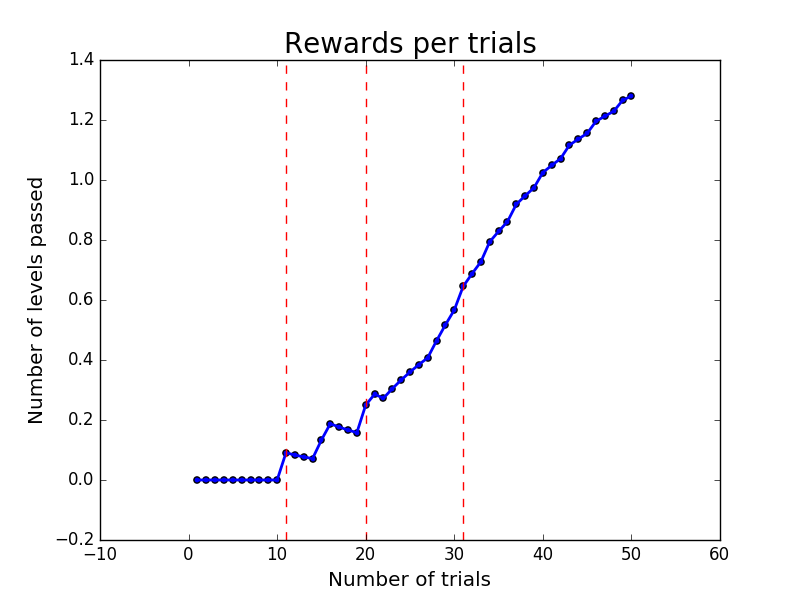
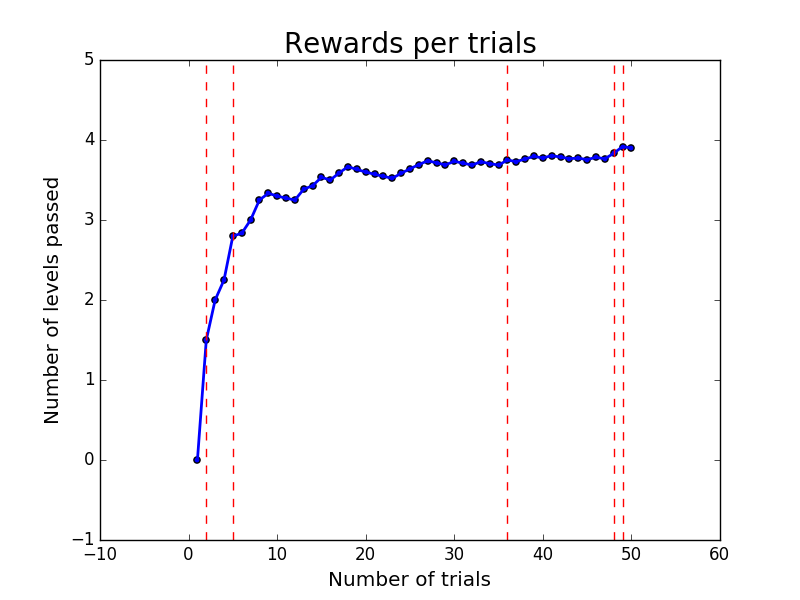
Last Version

diff --git a/src/denseLearnerRLSVI.py b/src/denseLearnerRLSVI.py
@@ -1,0 +1,220 @@
+'''
+Simple implementation of RLSVI agent.
+
+original author: Ian Osband, iosband@stanford.edu
+On the algorithm: http://arxiv.org/abs/1402.0635
+
+Adapted (wrapper structure) by Lars Roemheld, roemheld@stanford.edu
+'''
+
+import scipy.sparse
+import numpy as np
+
+
+class RLSVI:
+    '''
+    RLSVI agent
+
+    Important part is the memory, a list of lists.
+        covs[h] = Sigma_h
+        thetaMeans[h] = \overline{theta}_h
+        thetaSamps[h] = \hat{theta}_h
+        memory[h] = {oldFeat, reward, newFeat}
+            oldFeat = A (nData x nFeat)
+            reward = vector of rewards
+            newFeat = array (nData x nFeat x nAction)
+    with history appended row by row.
+    '''
+    def __init__(self, nFeat, nAction, epLen,
+                 epsilon=0.0, sigma=1.0, lam=1.0, maxHist=5000):
+        self.nFeat = nFeat
+        self.nAction = nAction
+        self.epLen = epLen
+        self.epsilon = epsilon
+        self.sigma = sigma
+        self.maxHist = maxHist
+        self.isRLSVI = (epsilon == 0.0) # sample from belief only if epsilon is 0. Setting this here allows epsilon to be changed later (to stop LSVI from exploring further)
+
+        # Make the computation structures
+        self.covs = []
+        self.thetaMeans = []
+        self.thetaSamps = []
+        self.memory = []
+        for i in range(epLen + 1):
+            self.covs.append(np.identity(nFeat) / float(lam))
+            self.thetaMeans.append(np.zeros(nFeat))
+            self.thetaSamps.append(np.zeros(nFeat))
+            self.memory.append({'oldFeat': np.zeros([maxHist, nFeat]),
+                                'rewards': np.zeros(maxHist),
+                                'newFeat': np.zeros([maxHist, nAction, nFeat])})
+
+    def update_obs(self, ep, h, oldObs, reward, newObs):
+        '''
+        Take in an observed transition and add it to the memory.
+
+        Args:
+            ep - int - which episode
+            h - int - timestep within episode
+            oldObs - nFeat x 1
+            action - int
+            reward - float
+            newObs - nFeat x nAction
+
+        Returns:
+            NULL - update covs, update memory in place.
+        '''
+        if ep >= self.maxHist:
+            print('****** ERROR: HISTORY Memory Exceeded ******')
+
+        # Covariance update
+        u = oldObs / self.sigma
+        S = self.covs[h]
+        Su = np.dot(S, u)
+        temp = np.outer(Su, Su)
+        temp2 = np.dot(u.T, Su) # TODO LR added the ".T", is this correct?!
+        self.covs[h] = S - (temp / (1 + temp2))
+
+        # Adding the memory
+        self.memory[h]['oldFeat'][ep, :] = oldObs.T  # TODO LR added the ".T", is this correct?!
+        self.memory[h]['rewards'][ep] = reward
+        self.memory[h]['newFeat'][ep, :, :] = newObs.T # TODO LR added the ".T", is this correct?!
+
+        if len(self.memory[h]['oldFeat']) == len(self.memory[h]['rewards']) \
+           and len(self.memory[h]['rewards']) == len(self.memory[h]['newFeat']):
+            pass
+        else:
+            print('****** ERROR: Memory LA dims Failure ******')
+
+    def update_policy(self, ep):
+        '''
+        Re-computes theta parameters via planning step.
+
+        Args:
+            ep - int - which episode are we on
+
+        Returns:
+            NULL - updates theta in place for policy
+        '''
+        H = self.epLen
+
+        if len(self.memory[H - 1]['oldFeat']) == 0:
+            return
+
+        for i in range(H):
+            h = H - i - 1
+            A = self.memory[h]['oldFeat'][0:ep]
+            nextPhi = self.memory[h]['newFeat'][0:ep, :, :]
+            nextQ = np.dot(nextPhi, self.thetaSamps[h + 1])
+            maxQ = nextQ.max(axis=1)
+            b = self.memory[h]['rewards'][0:ep] + maxQ
+            self.thetaMeans[h] = \
+                self.covs[h].dot(np.dot(A.T, b)) / (self.sigma ** 2)
+            self.thetaSamps[h] = \
+                np.random.multivariate_normal(mean=self.thetaMeans[h],
+                                              cov=self.covs[h])
+
+            mu = self.thetaMeans[h]
+            sig = np.sqrt(self.covs[h].diagonal())
+            if self.isRLSVI:
+                self.thetaSamps[h] = (mu + sig*np.random.normal(size=self.nFeat)).T
+            else:
+                self.thetaSamps[h] = (mu).T # If epsilon>0.0, do not sample (and use epsilon-greedy exploration)
+
+
+    def pick_action(self, t, obs):
+        '''
+        The greedy policy according to thetaSamps
+
+        Args:
+            t - int - timestep within episode
+            obs - nAction x nFeat - features for each action
+            epsilon - float - probability of taking random action
+
+        Returns:
+            action - int - greedy with respect to thetaSamps
+        '''
+        # Additional epsilon-greedy. (LR)
+        if np.random.rand() < self.epsilon:
+            return np.random.randint(self.nAction)
+        else:
+            qVals = np.dot(self.thetaSamps[t], obs.T)
+            return qVals.argmax()
+
+#-------------------------------------------------------------------------------
+
+class RLSVI_wrapper:
+    '''
+    Wrapper class for Osband's RLVI implementation. Chiefly hacks a way around the tuple-based features used in our
+    Q-Learner and game, creating rigid numpy-vector features. Additionally currently assumes that we are playing T episodes
+    of length 1 timestep (i.e. we learn after every move and ignore episodes)
+    '''
+    def __init__(self, actions, featureExtractor, epsilon=0.0, sigma=500.0):
+        self.actions = actions
+        self.featureExtractor = featureExtractor
+        self.currentEp = 0
+        self.maxNFeatures = 2000
+        self.featurePos = {} # super hacky dictionary: here we store the vector position that any given feature is stored in.
+        # Note that this needs to be constant across timesteps, so the dictionary needs to persist.
+        self.nFeaturesSeen = 0
+        self.rlsvi = RLSVI(self.maxNFeatures, len(actions(0)), epLen=1, epsilon=epsilon, sigma=sigma)
+        #TODO Note: this is not robust. Calling actions(state=0) works when state is ignored, but will WAT otherwise.
+
+    def makeLSVI(self, epsilon):
+        self.rlsvi.isRLSVI = False
+        self.rlsvi.epsilon = epsilon
+
+    def makeRLSVI(self):
+        self.rlsvi.isRLSVI = True
+        self.rlsvi.epsilon = 0.0
+
+    def getObsVect(self, state, action=None):
+        '''
+        Helper function that converts the more flexible tuple-syntax for features into the more rigid, linear-algebra
+        friendly vector format
+        '''
+        if action is None:
+            actions = self.actions(state)  #TODO Note: this is not robust. When available actions really vary by state, this may WAT.
+        else:
+            actions = [action]
+
+        obsVect = np.zeros((len(actions), self.maxNFeatures))
+
+        for (i, a) in enumerate(actions):
+            feats = self.featureExtractor(state, a)
+            for f in feats: # f is tuple (feature_name, feature_value)
+                p = self.featurePos.get(f[0]);
+                if p is None:
+                    self.nFeaturesSeen += 1
+                    assert self.nFeaturesSeen < self.maxNFeatures, 'RLSVI maxNFeatures is too small for actual features produced'
+                    self.featurePos[f[0]] = self.nFeaturesSeen
+                    p = self.nFeaturesSeen
+                obsVect[i][p] = f[1]
+        return obsVect
+
+    def getAction(self, state):
+        """
+        Epsilon-greedy algorithm: with probability |explorationProb|, take a random action. Otherwise, take action that
+        maximizes expected Q
+        :param state: current gameState
+        :return: the chosen action
+        """
+
+        # options = [(self.getQ(state, action), action) for action in self.actions(state)]
+        # bestVal = max(options)[0]
+        # return random.choice([opt[1] for opt in options if opt[0] == bestVal])
+        obsVect = self.getObsVect(state)
+        i_action = self.rlsvi.pick_action(0, obsVect)
+        return self.actions(state)[i_action]
+
+    # We will call this function with (s, a, r, s'), which you should use to update |weights|.
+    # Note that if s is a terminal state, then s' will be None.  Remember to check for this.
+    def incorporateFeedback(self, state, action, reward, newState):
+        if newState == None:
+            return
+
+        obsVect_old = self.getObsVect(state, action).T
+        obsVect_new = self.getObsVect(newState).T
+
+        self.rlsvi.update_obs(self.currentEp, 0, obsVect_old, reward, obsVect_new)
+        self.rlsvi.update_policy(self.currentEp)
+        self.currentEp += 1

diff --git a/src/evaluation.py b/src/evaluation.py
@@ -8,6 +8,8 @@ from matplotlib import pyplot as plt
 import numpy as np
 import matplotlib
 from sparseLearnerRLSVI import RLSVI_wrapper as RLSVI
+from denseLearnerRLSVI import RLSVI_wrapper as DRLSVI
+
 import pickle
 
 matplotlib.use('TkAgg')
@@ -54,13 +56,28 @@ def evaluator(rlAlgorithm,featureExtractor,nameAlg,nameFeat,multiple = 1.0,numTr
                 trial +=1
             except AssertionError:
                 break
-    elif nameAlg == 'RLSVI':
+    elif nameAlg == 'RLSVI' or nameAlg =='DRLSVI':
         while trial<numTrials:
             try:
                 print (trial)
                 rl.rlsvi.sigma = 500.0
                 simulate(ab,rl,numTrials=1, maxIterations=1000, verbose=False, show=False)
-                rl.rlsvi.sigma = 1.0
+                rl.rlsvi.sigma = 500.0
+                outcome = simulate(ab,rl,numTrials=1, maxIterations=1000, verbose=False, show=False)
+                levelsPassed = levelsPassed + outcome['levelsPassed']
+                totalRewards = totalRewards + outcome['totalRewards']
+                print(totalRewards)
+
+                trial +=1
+            except AssertionError:
+                break
+    elif nameAlg =='DRLSVI':
+        while trial<numTrials:
+            try:
+                print (trial)
+                rl.makeRLSVI()
+                simulate(ab,rl,numTrials=1, maxIterations=1000, verbose=False, show=False)
+                rl.makeLSVI(0.0)
                 outcome = simulate(ab,rl,numTrials=1, maxIterations=1000, verbose=False, show=False)
                 levelsPassed = levelsPassed + outcome['levelsPassed']
                 totalRewards = totalRewards + outcome['totalRewards']
@@ -70,18 +87,7 @@ def evaluator(rlAlgorithm,featureExtractor,nameAlg,nameFeat,multiple = 1.0,numTr
             except AssertionError:
                 break
 
-        while trial<numTrials:
-            try:
-                print (trial)
-                rl.rlsvi.sigma = sigma
-                simulate(ab,rl,numTrials=1, maxIterations=1000, verbose=False, show=False)
-                rl.rlsvi.sigma = 1.0
-                outcome = simulate(ab,rl,numTrials=1, maxIterations=1000, verbose=False, show=False)
-                levelsPassed = levelsPassed + outcome['levelsPassed']
-                totalRewards = totalRewards + outcome['totalRewards']
-                trial +=1
-            except AssertionError:
-                break
+
 
 
 
@@ -169,6 +175,23 @@ def level_evaluator(level,rlAlgorithm,featureExtractor,nameAlg,nameFeat,numFeat 
     plt.title('Rewards per trials', fontsize=20)
     plt.savefig('totalRewardsL3.png')
 
+def generalize_evaluator(rlAlgorithm,featureExtractor,nameAlg,nameFeat,multiple=1.0,numTrials=50, epsilon = 0.3, sigma = 500):
+
+    ab_train = AngryBirdsMDP(levels = [1,3,5,7])
+    ab_test = AngryBirdsMDP(levels = [2,4,6,8])
+
+    name = nameAlg+'_'+nameFeat+'_'+str(64*multiple)
+
+
+    rl = rlAlgorithm(actions=agent.getAngryBirdsActions,featureExtractor=featureExtractor,\
+                            epsilon=epsilon)
+    trainingOutcomes = simulate(ab_train,rl,numTrials=30, maxIterations=1000, verbose=False, show=False)
+    testOutcomes = simulate(ab_test,rl,numTrials=10, maxIterations=1000, verbose=False, show=False)
+
+    with open('../results/train_'+name,'wb') as file:
+        pickle.dump(trainingOutcomes,file)
+    with open('../results/test_'+name,'wb') as file:
+        pickle.dump(testOutcomes,file)
 
 
 if __name__ == '__main__':
@@ -178,14 +201,15 @@ if __name__ == '__main__':
     # evaluator(QLearningAlgorithm,agent.NPPFeatureExtractor,'Q','NPP',multiple = 1.0,numTrials=50, epsilon = 0.3, sigma = 500)
     # evaluator(QLearningAlgorithm,agent.NPPOFeatureExtractor,'Q','NPPO',multiple = 1.0,numTrials=50, epsilon = 0.3, sigma = 500)
     # evaluator(QLearningAlgorithm,agent.NPPSFeatureExtractor,'Q','NPPS',multiple = 1.0,numTrials=50, epsilon = 0.3, sigma = 500)
-    evaluator(RLSVI,agent.NPPFeatureExtractor,'RLSVI','NPP',multiple = 1.0,numTrials=50, epsilon = 0.0, sigma = 500)
-    evaluator(RLSVI,agent.NPPFeatureExtractor,'LSVI','NPP',multiple = 1.0,numTrials=50, epsilon = 0.3, sigma = 500)
+    evaluator(DRLSVI,agent.NPPFeatureExtractor,'DRLSVI','NPP',multiple = 1.0,numTrials=50, epsilon = 0.0, sigma = 500)
+    # evaluator(RLSVI,agent.NPPFeatureExtractor,'LSVI','NPP',multiple = 1.0,numTrials=50, epsilon = 0.3, sigma = 500)
     # evaluator(QLearningAlgorithm,agent.NPPFeatureExtractor,'Q','NPP',multiple = 2.0,numTrials=50, epsilon = 0.3, sigma = 500)
     # evaluator(RLSVI,agent.NPPFeatureExtractor,'RLSVI','NPP',multiple = 2.0,numTrials=50, epsilon = 0.0, sigma = 500)
     # evaluator(RLSVI,agent.NPPFeatureExtractor,'LSVI','NPP',multiple = 2.0,numTrials=50, epsilon = 0.3, sigma = 500)
     # evaluator(QLearningAlgorithm,agent.NPPFeatureExtractor,'Q','NPP',multiple = 2.0,numTrials=50, epsilon = 0.3, sigma = 500)
-    # evaluator(RLSVI,agent.NPPFeatureExtractor,'RLSVI','NPP',numFeat = 2.0,numTrials=50, epsilon = 0.0, sigma = 500)
-    # evaluator(RLSVI,agent.NPPFeatureExtractor,'LSVI','NPP',numFeat = 2.0,numTrials=50, epsilon = 0.3, sigma = 500)
+
+    # generalize_evaluator(RLSVI,agent.NPPFeatureExtractor,'RLSVI','NPP',multiple=1.0,numTrials=50, epsilon = 0.3, sigma = 500)
+    # generalize_evaluator(QLearningAlgorithm,agent.NPPFeatureExtractor,'Q','NPP',multiple=1.0,numTrials=50, epsilon = 0.3, sigma = 500)
 
     #
 
@@ -210,9 +234,8 @@ if __name__ == '__main__':
     plt.title('Rewards per trials', fontsize=20)
     plt.savefig('../plots/totalReward.png')
 
-    totalRewards = {'Q_NPP_64': pickle.load(open('../results/totalRewards_Q_NPP_128.0','rb')), \
-                    'RLSVI_NPP_64': pickle.load(open('../results/totalRewards_RLSVI_NPP_128.0','rb')),
-                    'LSVI_NPP_64': pickle.load(open('../results/totalRewards_LSVI_NPP_128.0','rb'))}
+    totalRewards = {'Q_NPP_64': pickle.load(open('../results/totalRewards_Q_NPP_64.0','rb')), \
+                    'RLSVI_NPP_64': pickle.load(open('../results/totalRewards_RLSVI_NPP_64.0','rb'))}
     colors = ['red','blue','green','black']
 
     plt.figure()
